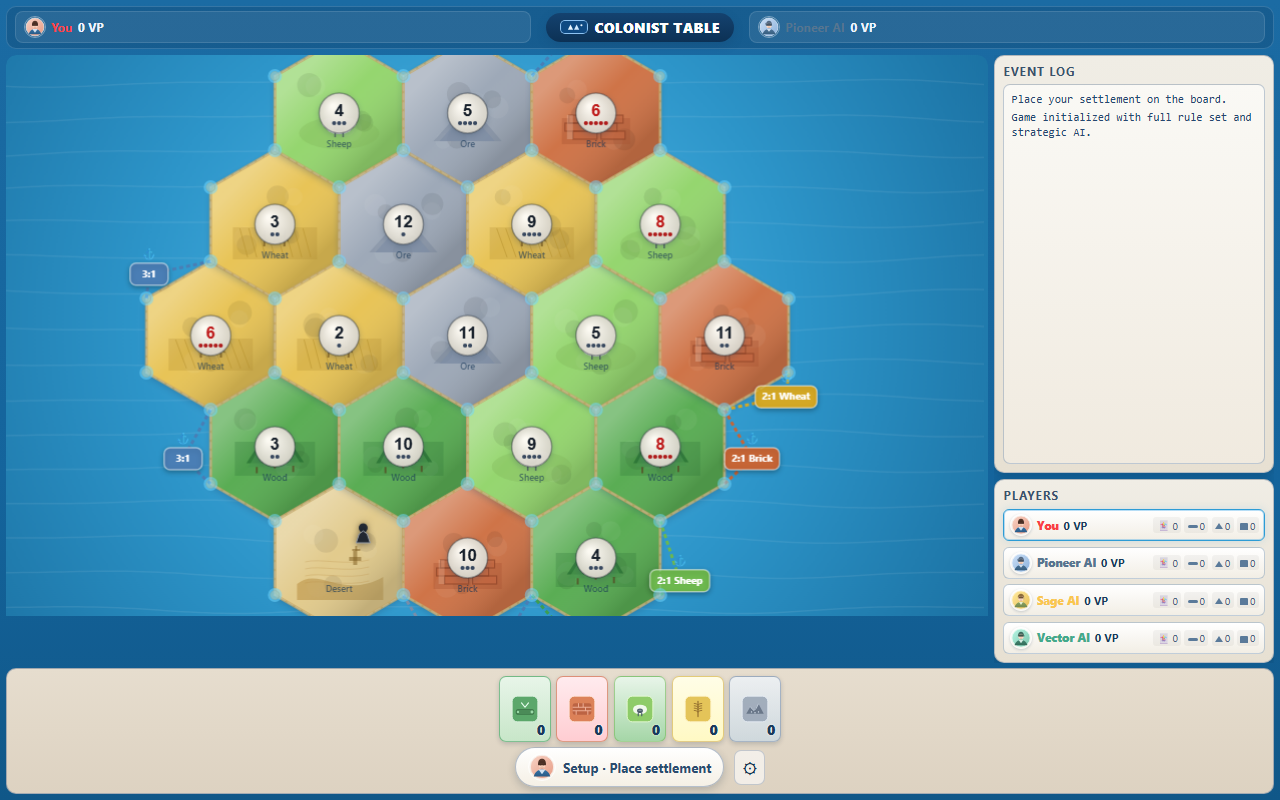
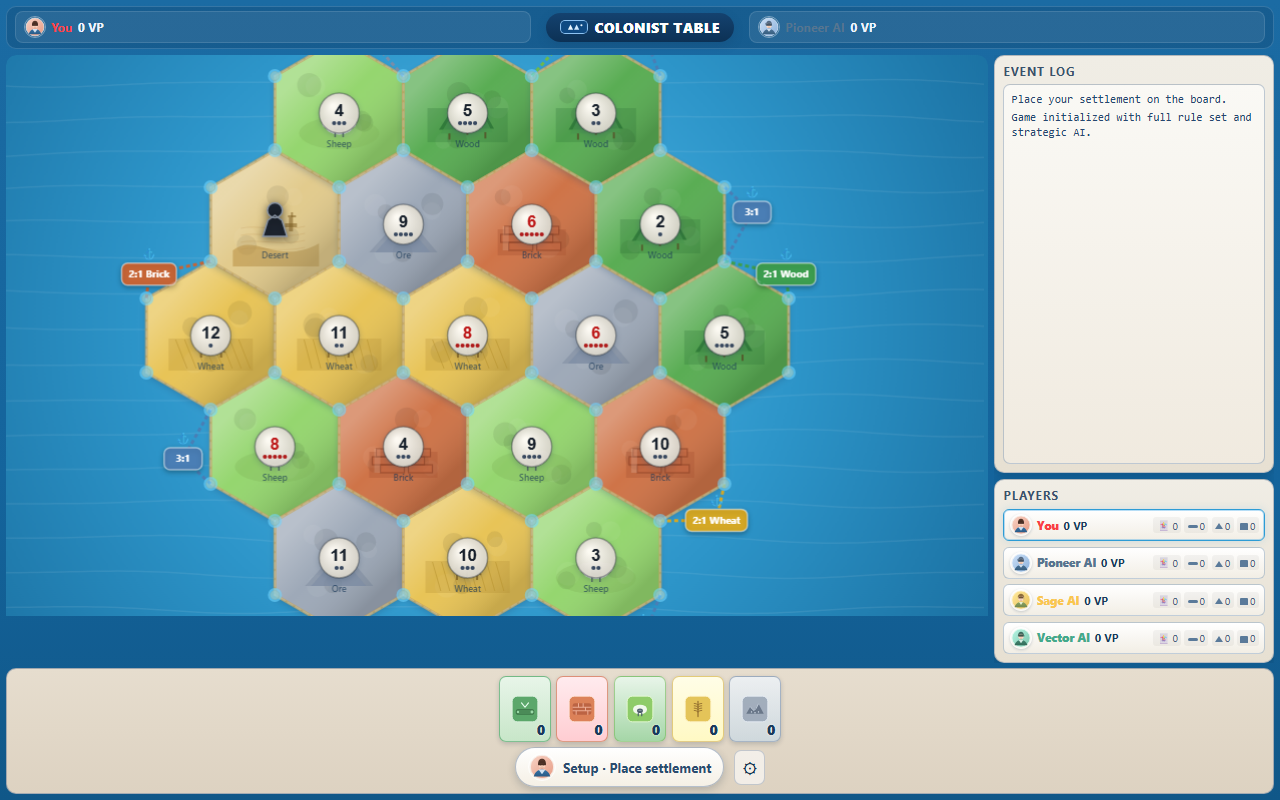
enlarge settlements, cities and robber for better visibility

diff --git a/src/game.js b/src/game.js
@@ -2146,23 +2146,27 @@ class ColonistFullGame {
 
     if (hex.id === this.robberHexId) {
       ctx.save();
-      ctx.translate(hex.center.x + 24, hex.center.y - 22);
-      ctx.shadowColor = "rgba(0,0,0,0.45)";
-      ctx.shadowBlur = 6;
-      ctx.fillStyle = "#242b35";
+      ctx.translate(hex.center.x, hex.center.y);
+      ctx.shadowColor = "rgba(0,0,0,0.5)";
+      ctx.shadowBlur = 8;
+      ctx.shadowOffsetY = 2;
+      ctx.fillStyle = "#1e2530";
       ctx.beginPath();
-      ctx.arc(0, -8, 4.5, 0, Math.PI * 2);
+      ctx.arc(0, -14, 7.5, 0, Math.PI * 2);
       ctx.fill();
       ctx.beginPath();
-      ctx.moveTo(-7, 7);
-      ctx.lineTo(-4, -2);
-      ctx.lineTo(0, -5);
-      ctx.lineTo(4, -2);
-      ctx.lineTo(7, 7);
+      ctx.moveTo(-12, 12);
+      ctx.lineTo(-7, -4);
+      ctx.lineTo(0, -9);
+      ctx.lineTo(7, -4);
+      ctx.lineTo(12, 12);
       ctx.closePath();
       ctx.fill();
-      ctx.strokeStyle = "#9ba2ac";
-      ctx.lineWidth = 1;
+      ctx.strokeStyle = "#8a95a5";
+      ctx.lineWidth = 1.5;
+      ctx.stroke();
+      ctx.beginPath();
+      ctx.arc(0, -14, 7.5, 0, Math.PI * 2);
       ctx.stroke();
       ctx.restore();
     }
@@ -2508,38 +2512,38 @@ class ColonistFullGame {
       ctx.shadowBlur = 8;
       ctx.shadowOffsetY = 3;
 
-      const fill = ctx.createLinearGradient(-9, -8, 9, 8);
+      const fill = ctx.createLinearGradient(-14, -14, 14, 14);
       fill.addColorStop(0, "rgba(255,255,255,0.26)");
       fill.addColorStop(0.25, player.color);
       fill.addColorStop(1, "rgba(16,16,20,0.45)");
       ctx.fillStyle = fill;
       ctx.strokeStyle = "#0f1722";
-      ctx.lineWidth = 1.2;
+      ctx.lineWidth = 1.5;
 
       if (node.structure === "settlement") {
         ctx.beginPath();
-        ctx.moveTo(-8, 6);
-        ctx.lineTo(-8, -2);
-        ctx.lineTo(0, -9);
-        ctx.lineTo(8, -2);
-        ctx.lineTo(8, 6);
+        ctx.moveTo(-12, 10);
+        ctx.lineTo(-12, -3);
+        ctx.lineTo(0, -14);
+        ctx.lineTo(12, -3);
+        ctx.lineTo(12, 10);
         ctx.closePath();
         ctx.fill();
         ctx.stroke();
         ctx.fillStyle = "rgba(255,255,255,0.3)";
-        ctx.fillRect(-5.8, -0.8, 2.4, 2.4);
+        ctx.fillRect(-4, -1, 3.5, 3.5);
       } else {
         ctx.beginPath();
-        ctx.rect(-9, -6, 18, 12);
-        ctx.moveTo(-10, -6);
-        ctx.lineTo(0, -13);
-        ctx.lineTo(10, -6);
+        ctx.rect(-14, -8, 28, 18);
+        ctx.moveTo(-15, -8);
+        ctx.lineTo(0, -20);
+        ctx.lineTo(15, -8);
         ctx.closePath();
         ctx.fill();
         ctx.stroke();
         ctx.fillStyle = "rgba(255,255,255,0.3)";
-        ctx.fillRect(-5, -1, 3, 3);
-        ctx.fillRect(2, -1, 3, 3);
+        ctx.fillRect(-8, -2, 4.5, 4.5);
+        ctx.fillRect(3, -2, 4.5, 4.5);
       }
       ctx.restore();
     });
